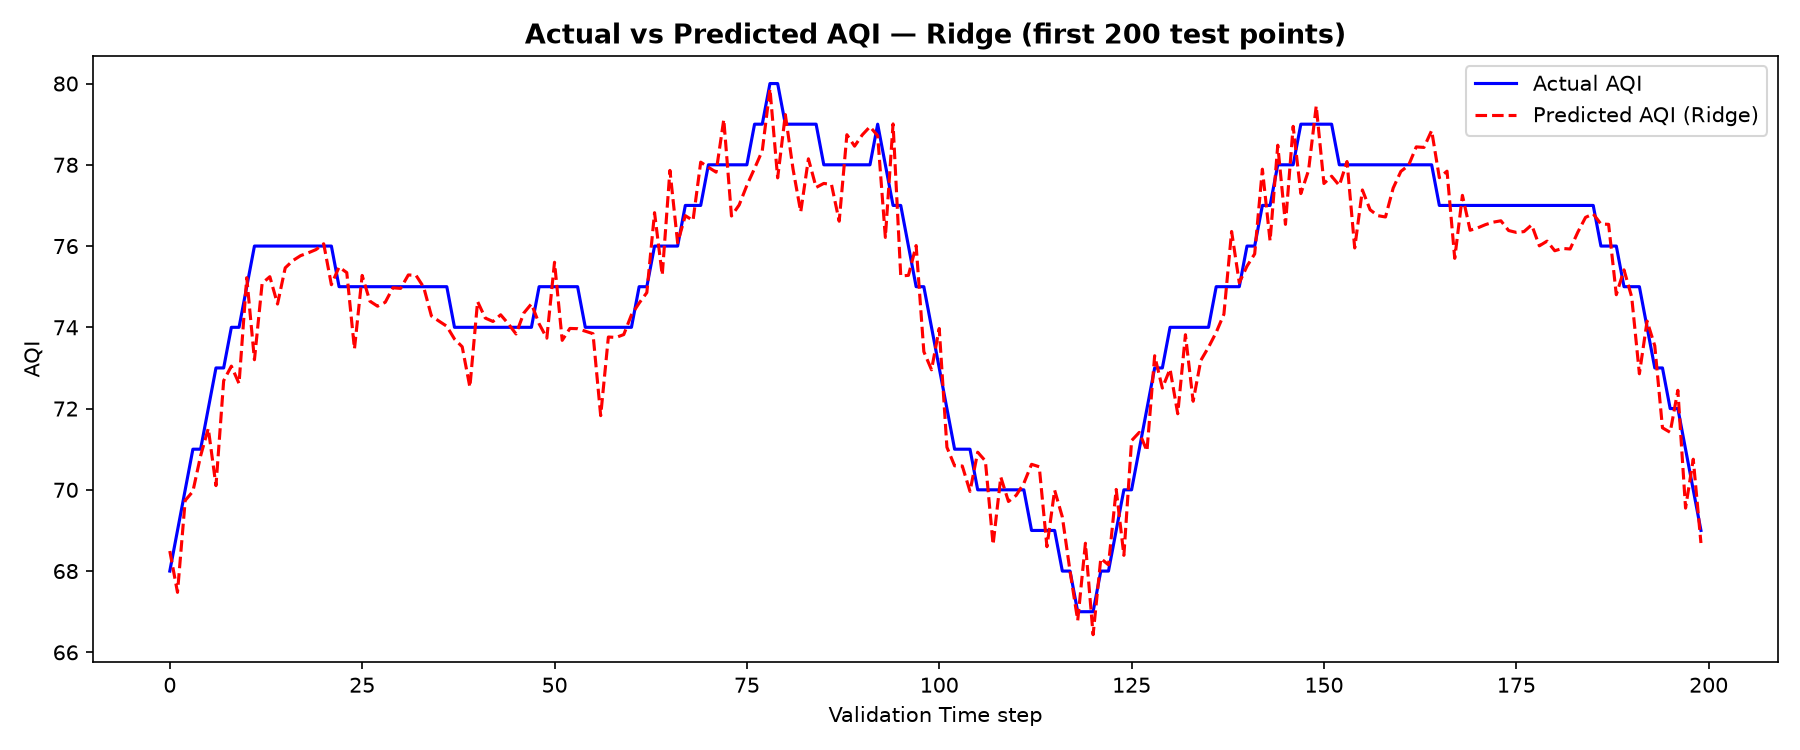
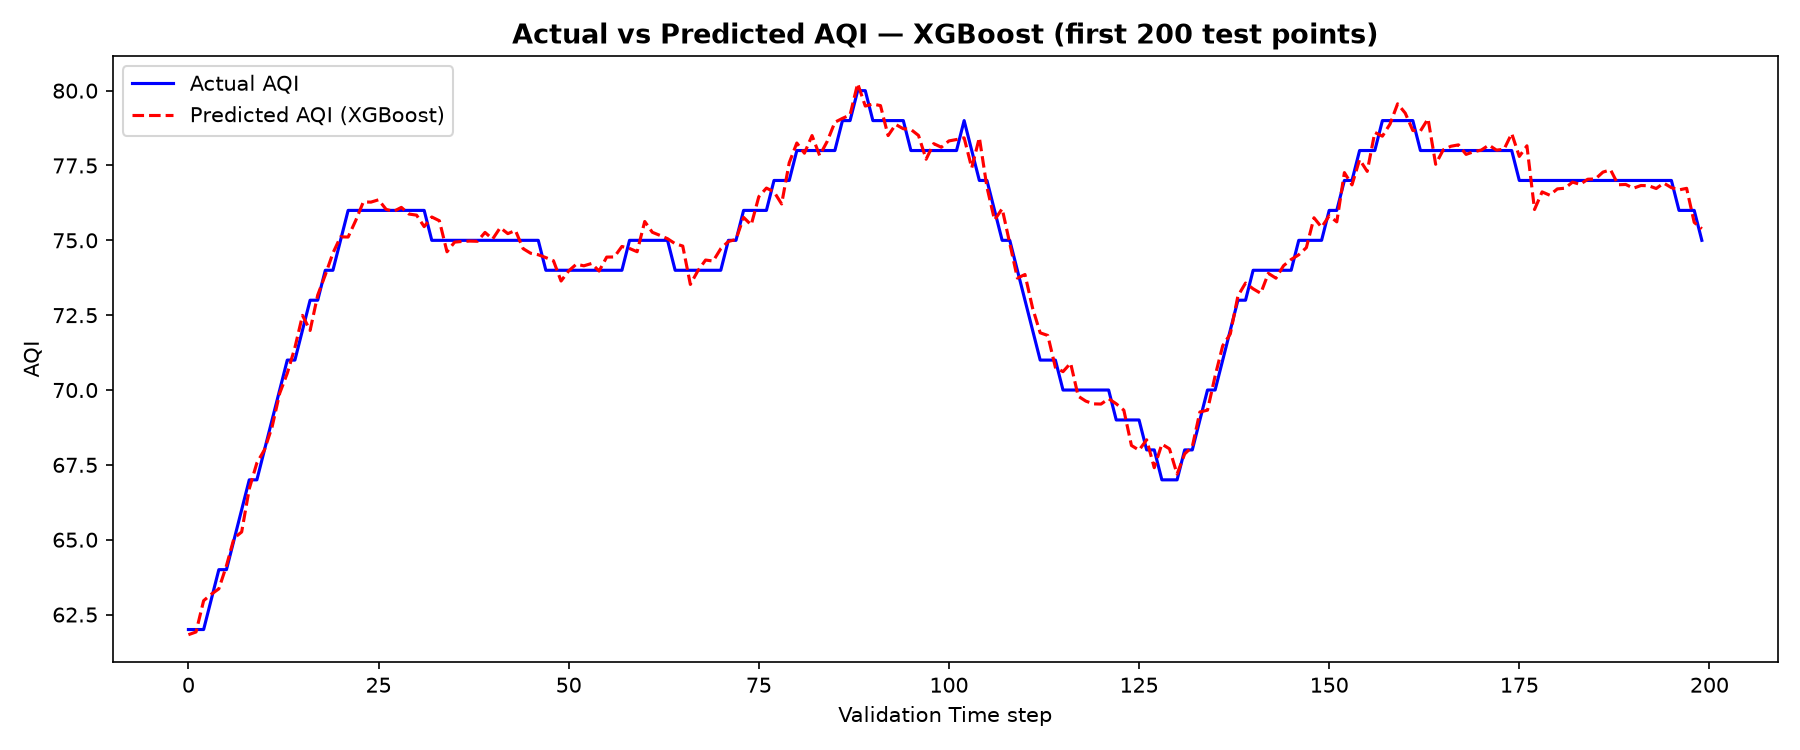
refine AQI time-series model evaluation

diff --git a/training_pipeline/train.py b/training_pipeline/train.py
@@ -164,19 +164,46 @@ def engineer_features(df: pd.DataFrame) -> pd.DataFrame:
 
     return df
 
+# Evaluate
+def evaluate_model(name, model, X_train, X_test, y_train, y_test):
+    model.fit(X_train, y_train)
+    preds = model.predict(X_test)
+
+    rmse = np.sqrt(mean_squared_error(y_test, preds))
+    mae = mean_absolute_error(y_test, preds)
+    r2 = r2_score(y_test, preds)
+
+    # Overfitting check
+    train_r2 = r2_score(y_train, model.predict(X_train))
+    gap = abs(train_r2 - r2)
+
+    print(f"\n{name}")
+    print(f"RMSE: {rmse:.4f}  MAE: {mae:.4f}  R²: {r2:.4f}")
+    print(f"Overfit gap: {gap:.4f}")
+
+    return {
+        "name": name,
+        "model": model,
+        "rmse": rmse,
+        "mae": mae,
+        "r2": r2,
+        "preds": preds,
+        "y_test": y_test,
+    }
+
 # Plot results
 def plot_actual_vs_predicted(results: dict, best_name: str):
 
     best = results[best_name]
-    y_val = np.asarray(best["y_val"])
+    y_test = np.asarray(best["y_test"])
     preds = np.asarray(best["preds"])
 
-    n = min(200, len(y_val))
+    n = min(200, len(y_test))
     x = np.arange(n)
 
     plt.figure(figsize=(12, 5))
 
-    plt.plot(x, y_val[:n], label="Actual AQI", color="blue", linewidth=1.5)
+    plt.plot(x, y_test[:n], label="Actual AQI", color="blue", linewidth=1.5)
 
     plt.plot(x, preds[:n], label=f"Predicted AQI ({best_name})", color="red", linewidth=1.5, linestyle="--")
 
@@ -230,16 +257,16 @@ def plot_model_comparison(results: dict):
     print(f"Saved: {path}")
 
 
-def plot_shap(model, X_val, feature_names):
+def plot_shap(model, X_test, feature_names):
 
     print("\nComputing SHAP values...")
 
     explainer = shap.TreeExplainer(model)
-    shap_values = explainer.shap_values(X_val)
+    shap_values = explainer.shap_values(X_test)
 
     plt.figure()
 
-    shap.summary_plot(shap_values, X_val, feature_names=feature_names, show=False)
+    shap.summary_plot(shap_values, X_test, feature_names=feature_names, show=False)
 
     plt.title("SHAP Feature Importance", fontsize=13, fontweight="bold")
 
@@ -336,9 +363,6 @@ def train():
     print(f"X shape: {X.shape}, y shape: {y.shape}")
     print(f"AQI range in training: {y.min()} to {y.max()}, mean: {y.mean():.1f}")
  
-    # Train models
-    print("\nTraining models...")
-
     models = {
         "Ridge": Pipeline([
             ("scaler", StandardScaler()),
@@ -370,102 +394,112 @@ def train():
 
     tscv = TimeSeriesSplit(n_splits=5)
 
-    cv_results = {}
-    final_fold_results = {}
+    selection_metrics = {}
+    final_results = {}
 
-    for name, model in models.items():
+    final_train_idx = None
+    final_val_idx = None
 
-        fold_rmses = []
-        fold_maes = []
-        fold_r2s = []
+    for fold, (train_idx, test_idx) in enumerate(tscv.split(X), start=1):
 
-        print(f"\n{name}")
+        if fold == 1:
+            continue
 
-        for fold, (train_idx, val_idx) in enumerate(tscv.split(X), start=1):
+        print(f"\nFold {fold}: ")
+        print(f"train={len(train_idx)}")
+        print(f"Test/validation={len(test_idx)}")
+    
+        X_train = X.iloc[train_idx]
+        X_test = X.iloc[test_idx]
 
-            X_train = X.iloc[train_idx]
-            X_val = X.iloc[val_idx]
-
-            y_train = y.iloc[train_idx]
-            y_val = y.iloc[val_idx]
-
-            model.fit(X_train, y_train)
-
-            predictions = model.predict(X_val)
-
-            rmse = np.sqrt(mean_squared_error(y_val, predictions))
-            mae = mean_absolute_error(y_val, predictions)
-            r2 = r2_score(y_val, predictions)
-
-            # Persistence baseline for this fold
-            naive_predictions = (X_val["aqi_lag_1h"].values)
-            naive_rmse = np.sqrt(mean_squared_error(y_val, naive_predictions))
-
-            fold_rmses.append(rmse)
-            fold_maes.append(mae)
-            fold_r2s.append(r2)
-
-            print(f"\nFold {fold}:")
-            print(f"RMSE = {rmse:.2f}")
-            print(f"MAE = {mae:.2f}")
-            print(f"R² = {r2:.4f}")
-            print(f"Baseline RMSE = {naive_rmse:.2f}")
+        y_train = y.iloc[train_idx]
+        y_test = y.iloc[test_idx]
 
         if fold == tscv.n_splits:
-            final_fold_results[name] = {
-                "name": name,
-                "model": model,
-                "rmse": rmse,
-                "mae": mae,
-                "r2": r2,
-                "preds": predictions,
-                "y_val": y_val
-            }
+            final_train_idx = train_idx
+            final_test_idx = test_idx
 
-        cv_results[name] = {
-            "mean_rmse": np.mean(fold_rmses),
-            "std_rmse": np.std(fold_rmses),
-            "mean_mae": np.mean(fold_maes),
-            "mean_r2": np.mean(fold_r2s)
+        for name, model in models.items():
+
+            result = evaluate_model(name, model, X_train, X_test, y_train, y_test)
+
+            baseline_predictions = X_test["aqi_lag_1h"].values
+            baseline_rmse = np.sqrt(mean_squared_error(y_test, baseline_predictions))
+            print(f"Baseline RMSE: {baseline_rmse:.4f}")
+
+            if fold < tscv.n_splits:
+                if name not in selection_metrics:
+                    selection_metrics[name] = {
+                        "rmses": [],
+                        "maes": [],
+                        "r2s": [],
+                        "baseline_rmses": []
+                    }
+                selection_metrics[name]["rmses"].append(result["rmse"])
+                selection_metrics[name]["maes"].append(result["mae"])
+                selection_metrics[name]["r2s"].append(result["r2"])
+                selection_metrics[name]["baseline_rmses"].append(baseline_rmse)
+
+            else:
+                final_results[name] = result
+                final_results[name]["baseline_rmse"] = (baseline_rmse)
+
+    selection_summary = {}
+
+    for name, metrics in selection_metrics.items():
+
+        mean_rmse = np.mean(metrics["rmses"])
+        std_rmse = np.std(metrics["rmses"])
+        mean_mae = np.mean(metrics["maes"])
+        mean_r2 = np.mean(metrics["r2s"])
+        mean_baseline_rmse = np.mean(metrics["baseline_rmses"])   
+
+        selection_summary[name] = {
+            "mean_rmse": mean_rmse,
+            "std_rmse": std_rmse,
+            "mean_mae": mean_mae,
+            "mean_r2": mean_r2,
+            "mean_baseline_rmse": mean_baseline_rmse
         }
 
-        print(f"\nMean RMSE: {cv_results[name]['mean_rmse']:.2f} +/- {cv_results[name]['std_rmse']:.2f}")
-        print(f"Mean MAE: {cv_results[name]['mean_mae']:.2f}")
-        print(f"Mean R²: {cv_results[name]['mean_r2']:.4f}")
+        print(f"\n{name}")
+        print(f"Mean RMSE: {mean_rmse:.4f} +/- {std_rmse:.4f}")
+        print(f"Mean MAE: {mean_mae:.4f}")
+        print(f"Mean R²: {mean_r2:.4f}")
+        print(f"Mean baseline RMSE: {mean_baseline_rmse:.4f}")    
 
     # Select best model by mean CV RMSE
-    best_name = min(cv_results, key=lambda name: cv_results[name]["mean_rmse"])
-    print(f"\nBest model from TimeSeriesSplit: {best_name}" )
+    best_name = min(selection_summary, key=lambda name: selection_summary[name]["mean_rmse"])
+    print(f"\nBest model from TimeSeriesSplit (folds 2-4): {best_name}")
 
-    # Train best model on all available data
+    best_final = final_results[best_name]
+
+    final_rmse = best_final["rmse"]
+    final_mae = best_final["mae"]
+    final_r2 = best_final["r2"]
+    final_baseline_rmse = best_final["baseline_rmse"]
+    final_improvement = ((final_baseline_rmse - final_rmse) / final_baseline_rmse * 100)
+
+    print(f"Selected model: {best_name}")
+    print(f"Final RMSE: {final_rmse:.4f}")
+    print(f"Final MAE: {final_mae:.4f}")
+    print(f"Final R²: {final_r2:.4f}")
+    print(f"Final persistence baseline RMSE: {final_baseline_rmse:.4f}")
+    print(f"Improvement over persistence baseline: {final_improvement:.1f}%")
+
+    # Train best final model on all available data
+    print(f"Retraining {best_name} on all {len(X)} rows")
+
     best_model = models[best_name]
 
     best_model.fit(X, y)
 
-    print(f"{best_name} retrained on all {len(X)} observations.")
-
-    baseline_rmses = []
-
-    for train_idx, val_idx in tscv.split(X):
-
-        X_val = X.iloc[val_idx]
-        y_val = y.iloc[val_idx]
-
-        baseline_predictions = (X_val["aqi_lag_1h"].values)
-        baseline_rmse = np.sqrt(mean_squared_error(y_val, baseline_predictions))
-        baseline_rmses.append(baseline_rmse)
-
-    mean_baseline_rmse = np.mean(baseline_rmses)
-
-    print(f"\nPersistence baseline mean RMSE: {mean_baseline_rmse:.2f}")
-    print(f"Best model mean CV RMSE: {cv_results[best_name]['mean_rmse']:.2f}")
-    improvement = ((mean_baseline_rmse - cv_results[best_name]["mean_rmse"]) / mean_baseline_rmse * 100)
-    print(f"Improvement over persistence baseline: {improvement:.1f}%")
+    print("model training complete!")
 
     # Plots
     print("\nGenerating plots...")
-    plot_actual_vs_predicted(final_fold_results, best_name)
-    plot_model_comparison(final_fold_results)
+    plot_actual_vs_predicted(final_results, best_name)
+    plot_model_comparison(final_results)
 
     # SHAP (only works on tree models)
     shap_model = best_model
@@ -474,28 +508,28 @@ def train():
         # Use Random Forest for SHAP if Ridge is the best model out of all
         shap_model = models["RandomForest"]
         shap_model.fit(X, y)
-        print("Note: SHAP uses Random Forest (Ridge is not tree-based)")
-
-    plot_input = X.iloc[-min(1000, len(X)):]
+        print("Note: SHAP uses Random Forest because Ridge is not tree-based")
 
     # Get raw model from Pipeline if needed
     if hasattr(shap_model, "named_steps"):
         shap_model = shap_model.named_steps["model"]
 
-    plot_shap(shap_model, plot_input, FEATURES)
+    X_shap = X.iloc[-min(1000, len(X)):]
 
-    metrics_for_registry = {
-        "rmse": cv_results[best_name]["mean_rmse"],
-        "mae": cv_results[best_name]["mean_mae"],
-        "r2": cv_results[best_name]["mean_r2"]
+    plot_shap(shap_model, X_shap, FEATURES)
+
+    final_metrics = {
+        "rmse": final_rmse,
+        "mae": final_mae,
+        "r2": final_r2
     }
 
     # Save model
     print("\nSaving model...")
-    save_model_locally(best_model, best_name, metrics_for_registry)
+    save_model_locally(best_model, best_name, final_metrics)
 
     if platform.system() != "Windows":
-        save_model_to_hopsworks(best_model, best_name, metrics_for_registry)
+        save_model_to_hopsworks(best_model, best_name, final_metrics)
 
 if __name__ == "__main__":
     train()
